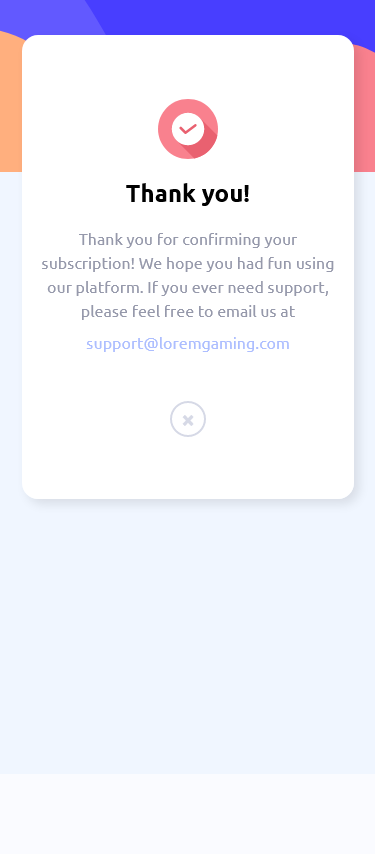
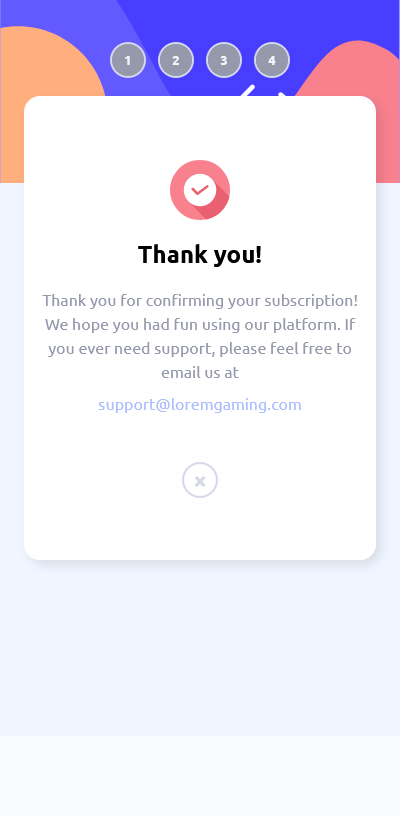
added desktop pics and update readme

Changed region(s): [[0.0, 0.0, 1.0, 0.5208], [0.088, 0.5821, 0.9387, 0.6127], [0.0, 0.1838, 0.0587, 0.2451]]

diff --git a/src/components/layout/bottom-nav.tsx b/src/components/layout/bottom-nav.tsx
@@ -1,4 +1,4 @@
-import { FC } from 'react';
+import { FC, useEffect } from 'react';
 
 import { Button } from '../ui';
 import { useSubscription } from '../../context/subscription';
@@ -6,7 +6,7 @@ import styles from './styles/footer.module.css';
 
 export const BottomNavigation: FC = () => {
   const {
-    state: { stepNumber, userInfo, planInfo, isCompleted },
+    state: { stepNumber, userInfo, planInfo, addons, isCompleted },
     setFormStepNumber,
   } = useSubscription();
 
@@ -14,11 +14,18 @@ export const BottomNavigation: FC = () => {
     Boolean,
   );
 
-  const nextStep = () =>
-    setFormStepNumber(pvStepNum => (pvStepNum === 5 ? pvStepNum : pvStepNum + 1));
+  const submitSubscriptionData = () => {
+    const sub_details = { userInfo, planInfo, addons };
+    console.log(sub_details);
+  };
 
-  const prevStep = () =>
-    setFormStepNumber(pvStepNum => (pvStepNum === 1 ? pvStepNum : pvStepNum - 1));
+  useEffect(() => {
+    if (isCompleted) submitSubscriptionData();
+  }, [isCompleted]);
+
+  const nextStep = () => setFormStepNumber(pvStepNum => pvStepNum + 1);
+
+  const prevStep = () => setFormStepNumber(pvStepNum => pvStepNum - 1);
 
   const isDisabled =
     (stepNumber === 1 && !userInputIsValid) || (stepNumber === 2 && !planInfo.type);

diff --git a/src/components/steps/styles/confirmation.module.css b/src/components/steps/styles/confirmation.module.css
@@ -4,10 +4,10 @@
   justify-content: center;
   align-items: center;
   text-align: center;
-  gap: 1rem;
+  margin-inline: auto;
   padding-block: 3rem;
-  height: 100%;
   max-width: 25rem;
+  gap: 1rem;
 }
 
 .container p {
@@ -34,8 +34,8 @@
   color: var(--Light-gray);
   background-color: transparent;
   outline: 2px solid var(--Light-gray);
-  cursor: pointer;
   transition: outline 200ms;
+  cursor: pointer;
 }
 
 .reset:hover {

diff --git a/src/context/subscription.tsx b/src/context/subscription.tsx
@@ -17,9 +17,7 @@ export type PlanTypes = 'Arcade' | 'Advanced' | 'Pro' | '';
 type Plan = { type: PlanTypes; price: number };
 
 export type AddonTypes = 'Online service' | 'Large storage' | 'Customizable profile';
-type Addon =
-  | { type: 'Online service'; price: number }
-  | { type: 'Large storage' | 'Customizable profile'; price: number };
+type Addon = { type: AddonTypes; price: number };
 
 type InitState = {
   planInfo: Plan;

diff --git a/src/components/ui/input.tsx b/src/components/ui/input.tsx
@@ -91,10 +91,10 @@ export const Input: FC<InputProps> = ({ id, type, label, placeholder }) => {
         id={id}
         name={id}
         type={type}
-        defaultValue={inputDefaultValue}
         onBlur={onBlurHandler}
         onChange={onChangeHandler}
         placeholder={placeholder}
+        defaultValue={inputDefaultValue}
         className={`${styles.input} ${styleInputOnError}`}
       />
     </fieldset>

diff --git a/README.md b/README.md
@@ -1,4 +1,4 @@
-# Frontend Mentor - Multi-step form solution
+# Frontend Mentor - Multi-Step Form
 
 This is a solution to the [Multi-step form challenge on Frontend Mentor](https://www.frontendmentor.io/challenges/multistep-form-YVAnSdqQBJ).
 
@@ -6,6 +6,8 @@ This is a solution to the [Multi-step form challenge on Frontend Mentor](https:/
 
 - [Overview](#overview)
   - [Screenshot](#screenshot)
+    - [Mobile view](#mobile-view)
+    - [Desktop view](#desktop-view)
   - [Links](#links)
   - [Built with](#built-with)
 - [Author](#author)
@@ -17,33 +19,63 @@ This is a solution to the [Multi-step form challenge on Frontend Mentor](https:/
 #### Mobile View
 
 ##### Step 1 : Personal Info
-  ![default state](/public/screenshots/mobile/1.png)
-  ![validating state](/public/screenshots/mobile/2.png)
-  ![all valid state](/public/screenshots/mobile/3.png)
+
+![default state](/public/screenshots/mobile/1.png)
+![validating state](/public/screenshots/mobile/2.png)
+![all valid state](/public/screenshots/mobile/3.png)
 
 ##### Step 2 : Select Plan
-  ![default state](/public/screenshots/mobile/4.png)
-  ![selected state (monthly)](/public/screenshots/mobile/5.png)
-  ![selected state (yearly)](/public/screenshots/mobile/6.png)
+
+![default state](/public/screenshots/mobile/4.png)
+![selected state (monthly)](/public/screenshots/mobile/5.png)
+![selected state (yearly)](/public/screenshots/mobile/6.png)
 
 ##### Step 3 : Choose Addon
-  ![default state (monthly)](/public/screenshots/mobile/7-mo.png)
-  ![default state (yearly)](/public/screenshots/mobile/7-yr.png)
-  ![selected state (monthly)](/public/screenshots/mobile/8-mo.png)
-  ![selected state (yearly)](/public/screenshots/mobile/8-yr.png)
 
-##### Step 4 : Finishing Up
-  ![default state (monthly)](/public/screenshots/mobile/9.png)
-  ![default state (yearly)](/public/screenshots/mobile/10.png)
-  ![with selected addons state (monthly)](/public/screenshots/mobile/9-mo.png)
-  ![with selected addons state (yearly)](/public/screenshots/mobile/9-yr.png)
+![default state (monthly)](/public/screenshots/mobile/7-mo.png)
+![default state (yearly)](/public/screenshots/mobile/7-yr.png)
+![selected state (monthly)](/public/screenshots/mobile/8-mo.png)
+![selected state (yearly)](/public/screenshots/mobile/8-yr.png)
 
-##### Step 5 : Congratulations
-  ![default state](/public/screenshots/mobile/11.png)
-  ![hover state on close form button](/public/screenshots/mobile/12.png)
+##### Step 4 : Summary
+
+![default state (monthly)](/public/screenshots/mobile/9.png)
+![default state (yearly)](/public/screenshots/mobile/10.png)
+![with selected addons state (monthly)](/public/screenshots/mobile/9-mo.png)
+![with selected addons state (yearly)](/public/screenshots/mobile/9-yr.png)
+
+##### Step 5 : Confirmation
+
+![default state](/public/screenshots/mobile/11.png)
+![hover state on close form button](/public/screenshots/mobile/12.png)
 
 #### Desktop View
-- To be implemented
+
+##### Step 1 : Personal Info
+
+![default state](/public/screenshots/descktop/1.png)
+![validating state](/public/screenshots/descktop/2.png)
+![all valid state](/public/screenshots/descktop/3.png)
+
+##### Step 2 : Select Plan
+
+![default state](/public/screenshots/desktop/4.png)
+![selected state (monthly)](/public/screenshots/desktop/5.png)
+![selected state (yearly)](/public/screenshots/desktop/6.png)
+
+##### Step 3 : Choose Addon
+
+![default state](/public/screenshots/desktop/7.png)
+![selected state](/public/screenshots/desktop/8.png)
+
+##### Step 4 : Summary
+
+![state (monthly)](/public/screenshots/desktop/9.png)
+![state (yearly)](/public/screenshots/desktop/10.png)
+
+##### Step 5 : Confirmation
+
+![default state](/public/screenshots/desktop/11.png)
 
 ### Links
 
@@ -54,7 +86,7 @@ This is a solution to the [Multi-step form challenge on Frontend Mentor](https:/
 - JS library : [React](https://reactjs.org/)
 - Workflow : Mobile-first
 - HTML5 : Semantic markup
-- CSS : Custom variables | Flexbox | Grid
+- CSS : Modules | Variables | Flexbox | Grid
 
 ## Author
 
